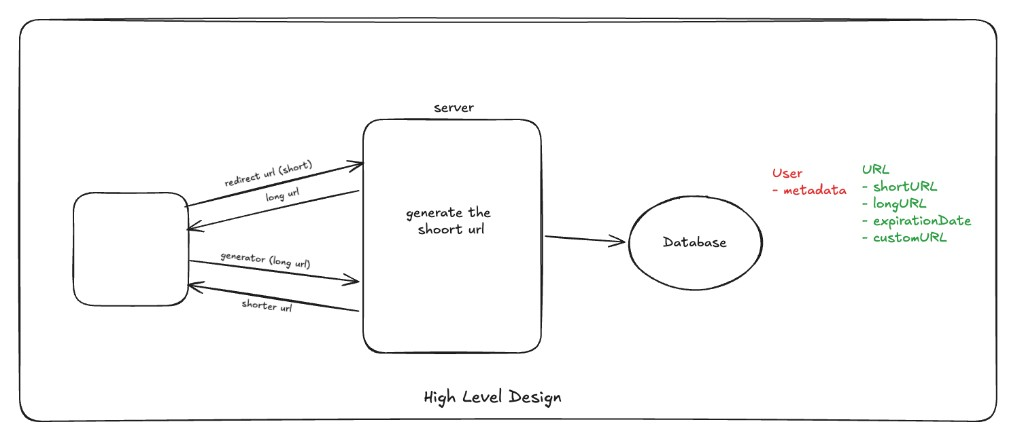
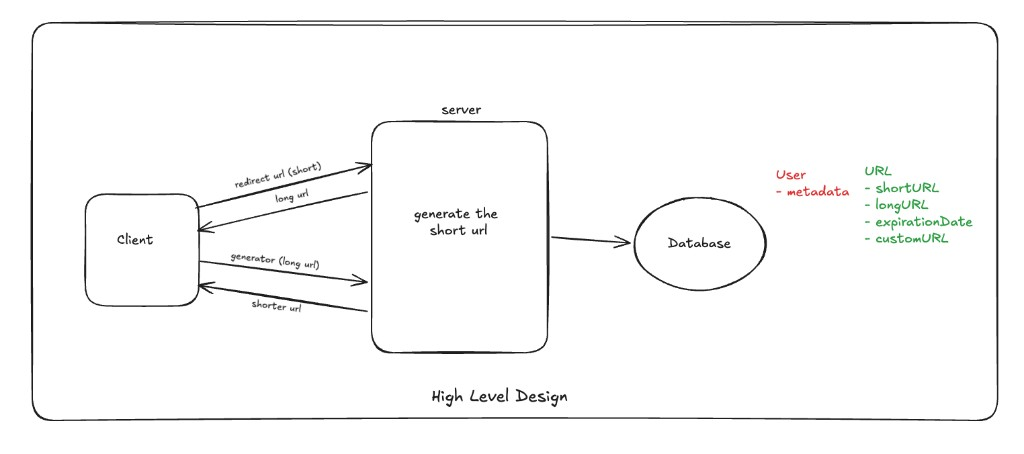
add

diff --git a/hld/url-shortener.html b/hld/url-shortener.html
@@ -149,13 +149,34 @@
             border: 1px solid #2d2d44;
         }
         pre.api-sample + pre.api-sample { margin-top: 12px; }
-        .hld-diagram { max-width: 100%; height: auto; display: block; }
+        .diagram-figure {
+            margin: 20px 0 0 0;
+            text-align: center;
+            background: white;
+            padding: 16px;
+            border-radius: 8px;
+            border: 1px solid #e0e0e0;
+        }
+        .diagram-figure img {
+            max-width: 100%;
+            height: auto;
+            display: block;
+            margin: 0 auto;
+            border-radius: 6px;
+        }
+        .diagram-figure figcaption {
+            margin-top: 12px;
+            font-size: 0.9em;
+            color: #555;
+            line-height: 1.5;
+        }
         @media (max-width: 768px) {
             .navbar { flex-direction: column; gap: 15px; }
             table { font-size: 0.9em; }
             table th, table td { padding: 8px; }
         }
     </style>
+    <link rel="stylesheet" href="diagram-zoom.css">
 </head>
 <body>
     <div class="wrapper">
@@ -273,7 +294,15 @@
 
                 <div class="section">
                     <h2>High-Level Design</h2>
-                    <img src="assets/url-shortener-high-level-design.png" alt="High-level design" width="1024" height="439" class="hld-diagram">
+                    <ul>
+                        <li><strong>Client:</strong> Sends requests to shorten or access URLs</li>
+                        <li><strong>Backend Server:</strong> Handles URL shortening logic and redirection</li>
+                        <li><strong>Database:</strong> Stores mapping between short URLs and long URLs, user metadata, expiration dates, custom URL info</li>
+                    </ul>
+                    <figure class="diagram-figure">
+                        <img src="assets/url-shortener-high-level-design.png" alt="High-level design: client, server, database" width="1024" height="454">
+                        <figcaption></figcaption>
+                    </figure>
                 </div>
 
                 <div class="section">
@@ -411,5 +440,6 @@
             </div>
         </div>
     </div>
+    <script src="diagram-zoom.js" defer></script>
 </body>
 </html>
